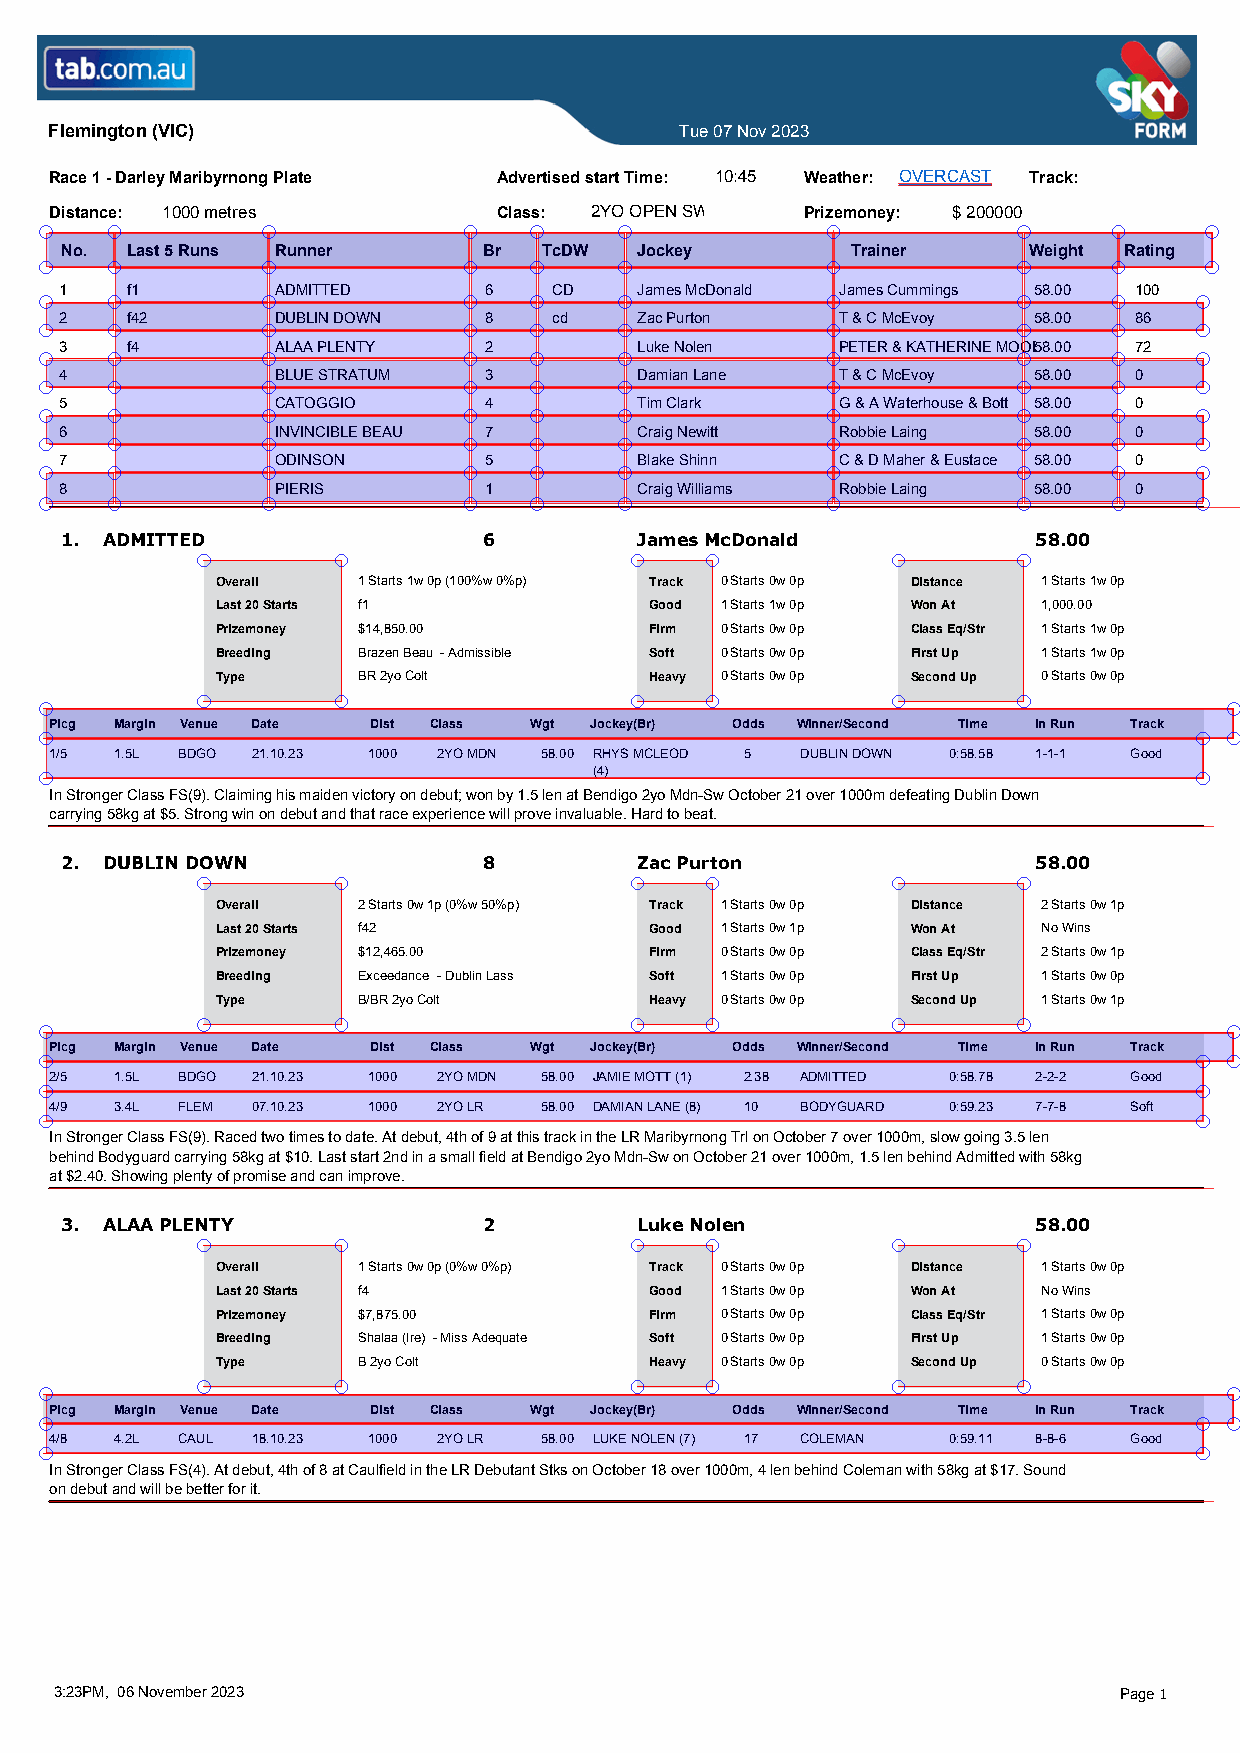
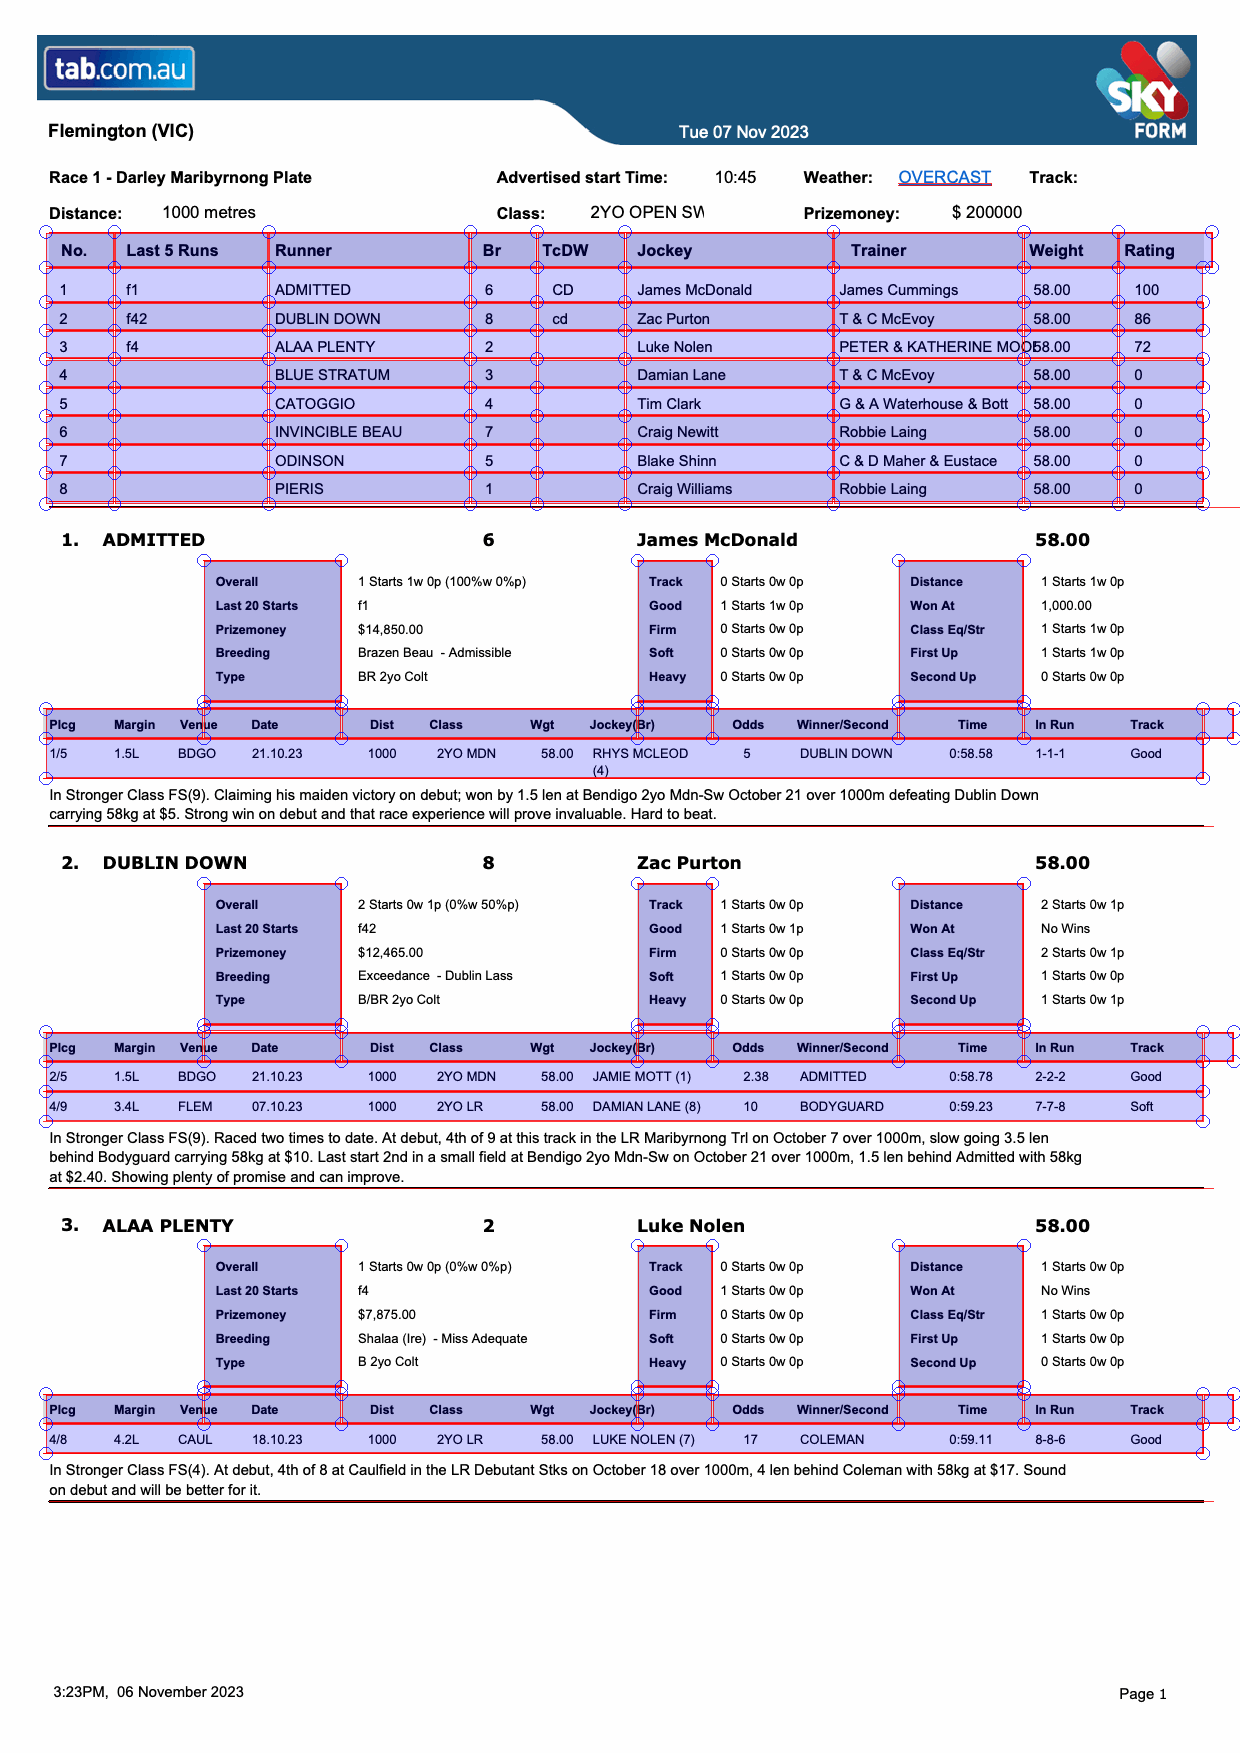
basically working

diff --git a/main.py b/main.py
@@ -1,12 +1,12 @@
+from tokenize import String
 import customtkinter
+from numpy import extract, pad
 
 import pandas as pd
 import pdfplumber
 import re
 from pprint import pprint
-
-
-
+import threading
 
 
 customtkinter.set_appearance_mode("System")  # Modes: system (default), light, dark
@@ -20,123 +20,278 @@ import os
 class App(customtkinter.CTk):
     def __init__(self):
         super().__init__()
+
+        self.table_settings = {
+            "vertical_strategy": "lines",
+            "intersection_y_tolerance": 20,
+        }
+        self.racer_number = 1
         self.geometry("600x200")
 
         self.selected_file = StringVar(value="None Selected")
 
-        self.title_label = customtkinter.CTkLabel(self, text="PDF Text Extract", font=("Arial", 25))
+        self.title_label = customtkinter.CTkLabel(
+            self, text="PDF Text Extract", font=("Arial", 25)
+        )
         self.title_label.grid(row=1, column=1, columnspan=2, padx=5, pady=5)
-        
-        self.select_file_button = customtkinter.CTkButton(self, text="Select a file", command=self.select_file)
+
+        self.select_file_button = customtkinter.CTkButton(
+            self, text="Select a file", command=self.select_file
+        )
         self.select_file_button.grid(row=2, column=1, sticky=W, pady=2, padx=5)
 
-        self.selected_file_label = customtkinter.CTkLabel(self, textvariable=self.selected_file)
+        self.selected_file_label = customtkinter.CTkLabel(
+            self, textvariable=self.selected_file
+        )
         self.selected_file_label.grid(row=2, column=2, sticky=W, pady=2, padx=5)
-       
 
-        self.start_button = customtkinter.CTkButton(self, text="Start Extraction", command=self.extract)
+        self.start_button = customtkinter.CTkButton(
+            self, text="Start Extraction", command=self.start_thread
+        )
         self.start_button.grid(row=3, column=1)
 
+        self.progressbar = customtkinter.CTkProgressBar(self)
+        self.progressbar.grid(row=4, column=1, columnspan=2, padx=10, pady=10)
+        self.progressbar.set(0)
+
+        self.progress_state = StringVar(value="Waiting to start")
+        self.progress_label = customtkinter.CTkLabel(
+            self, textvariable=self.progress_state
+        )
+        self.progress_label.grid(row=5, column=1, columnspan=2, padx=10, pady=10)
 
     def select_file(self):
-        self.selected_file.set(fd.askopenfilename(initialdir=os.getcwd(), filetypes=[("pdf", "*.pdf")]))
+        self.selected_file.set(
+            fd.askopenfilename(initialdir=os.getcwd(), filetypes=[("pdf", "*.pdf")])
+        )
 
     def extract(self):
         with pdfplumber.open(self.selected_file.get()) as pdf:
-            table_settings = {
-                "vertical_strategy": "lines",
-                "intersection_x_tolerance": 20,
-            }
-            # im = pdf.pages[0].to_image(resolution=150)
-            # # im.draw_rects(pdf.pages[0].extract_words())
-            # im.debug_tablefinder(tf=table_settings)
-            # im.save("test.png", format="PNG", quantize=True, colors=256, bits=8)
+            # table_settings = {
+            #     "vertical_strategy": "lines",
+            #     "intersection_x_tolerance": 20,
+            # }
+            im = pdf.pages[0].to_image(resolution=150)
+            # im.draw_rects(pdf.pages[0].extract_words())
+            im.debug_tablefinder(tf=self.table_settings)
+            im.save("test.png", format="PNG", quantize=True, colors=256, bits=8)
 
             # table = pdf.pages[0].extract_table(table_settings=table_settings)
             # df = pd.DataFrame(table[1:], columns=table[0])
             # print(df)
 
-            upto = 1
-            next = False
-            total_starts = []
-            total_winrates = []
-            total_wintimes = []
-
+            expecting_data_next_line = False
             finished_datasets = {}
-            
-            #current_race = ""
-            df = None
+
+            # variable to store the current race's data table
+            current_race_table = None
+
+            # variables to track extra data for each race
+            current_race_starts = []
+            current_race_winrates = []
+            current_race_wintimes = []
+
             for i, page in enumerate(pdf.pages):
-                printed = False
+
+                self.progressbar.set(i / len(pdf.pages))
+                self.update_idletasks()
+                self.progress_state.set(f"Reading page {i} of {len(pdf.pages)}")
 
                 text = page.extract_text().split("\n")
                 for line in text:
                     if line.startswith("Race "):
-                        upto = 1  # reset back to 1
-                        data = line.split(" Advertised ")
-                        print(f"found {data[0]} on page {i}")
+                        # This can be the start of a new race, and the end of an older race
 
-                        if df is not None:
-                            df["Starts"] = total_starts
-                            df["Winrate"] = total_winrates
-                            df["Win Times"] = total_wintimes
-                            total_starts = []
-                            total_winrates = []
-                            total_wintimes = []
-                            finished_datasets[data[0]] = df
-                            print(df)
+                        # If there was a previous race, store and reset the variables
+                        if current_race_table is not None:
+                            # Add on the extra data to the main table
+                            current_race_table["Starts"] = current_race_starts
+                            current_race_table["Winrate"] = current_race_winrates
+                            current_race_table["Win Times"] = current_race_wintimes
 
-                        
+                            # Add it to the finished tables
+                            finished_datasets[race_num] = current_race_table
 
-                        if not printed:
+                            # Reset the variables
+                            current_race_table = None
+                            current_race_starts = []
+                            current_race_winrates = []
+                            current_race_wintimes = []
 
-                            table_settings = {
-                                "vertical_strategy": "lines",
-                                "intersection_y_tolerance": 20,
-                            }
-                            table = page.extract_table(table_settings=table_settings)
-                            df = pd.DataFrame(table[1:], columns=table[0])
-                            df = df.rename(columns={"No.": "Num", "Rating": "Rat"})
-                            print(df.columns)
-                            df.drop(['Last 5 Runs', 'Runner', 'TcDW', 'Jockey', 'Trainer', 'Weight'], axis=1, inplace=True)
-                            printed = True
+                        self.racer_number = 1  # reset back to 1
+                        race_num_name = line.split(" Advertised ")[0]
+                        race_num = race_num_name.split(" - ")[0][-2:]
 
-                    if line.startswith("Distance"):
+                        print(f"found {race_num} on page {i}")
+
+                        # Extract the race results table
+                        table = page.extract_table(table_settings=self.table_settings)
+                        current_race_table = pd.DataFrame(table[1:], columns=table[0])
+                        # Clear any letters that are making it into the table
+                        current_race_table["Rating"] = current_race_table[
+                            "Rating"
+                        ].str.extract("(\d+)", expand=False)
+
+                        current_race_table = current_race_table.rename(
+                            columns={"No.": "Num", "Rating": "Rat"}
+                        )
+
+                        current_race_table.drop(
+                            [
+                                "Last 5 Runs",
+                                "Runner",
+                                "TcDW",
+                                "Jockey",
+                                "Trainer",
+                                "Weight",
+                            ],
+                            axis=1,
+                            inplace=True,
+                        )
+
+                    elif line.startswith("Distance"):
                         data2 = line.split("Prizemoney: ")
                         print(f"Prizemoney: {data2[1]}")
 
-                    if line.startswith(f"{upto}. "):
+                    elif line.startswith(f"{self.racer_number}. "):
                         # print(line)
-                        next = True
+                        expecting_data_next_line = True
 
-                    if next and line.startswith("Overall"):
-                            
-                        next = False
+                    elif expecting_data_next_line and line.startswith("Overall"):
+                        expecting_data_next_line = False
+
                         data = line.split(" ")
                         starts = int(data[1])
                         win_times = int(data[3][:-1])
                         win_rate = data[5][1:-2]
+
                         if win_rate.isdigit():
                             win_rate = round(int(win_rate) / 100, 2)
                         else:
                             win_rate = 0.00
 
                         # print(f"{upto} | Starts: {starts}, Win times: {win_times}, Win Rates: {win_rate}")
-                        total_starts.append(starts)
-                        total_wintimes.append(win_times)
-                        total_winrates.append(win_rate)
+                        current_race_starts.append(starts)
+                        current_race_wintimes.append(win_times)
+                        current_race_winrates.append(win_rate)
 
-                        upto += 1
+                        self.racer_number += 1
                         # 'Overall 1 Starts 0w 0p (0%w 0%p)
-                        # hi
-            
-            with pd.ExcelWriter('output.xlsx') as writer:  
-                for k,v in finished_datasets.items():
-                    v.to_excel(writer, sheet_name=k)
 
-            
-                
+            # Need to add the last table
+            current_race_table["Starts"] = current_race_starts
+            current_race_table["Winrate"] = current_race_winrates
+            current_race_table["Win Times"] = current_race_wintimes
+
+            # Add it to the finished tables
+            finished_datasets[race_num] = current_race_table
+
+            self.progress_state.set("Writing Excel File")
+
+            with pd.ExcelWriter("output.xlsx") as writer:
+                for k, v in finished_datasets.items():
+                    v.to_excel(writer, sheet_name=f"Race {k}")
+
+            self.progressbar.set(1)
+            self.progress_state.set("Finished!")
+
+    def start_thread(self):
+        # Create a new thread to run execute_code
+        thread = threading.Thread(target=self.extract)
+        thread.start()
 
 
 app = App()
 app.mainloop()
+
+
+# with pdfplumber.open(self.selected_file.get()) as pdf:
+#     table_settings = {
+#         "vertical_strategy": "lines",
+#         "intersection_x_tolerance": 20,
+#     }
+#     # im = pdf.pages[0].to_image(resolution=150)
+#     # # im.draw_rects(pdf.pages[0].extract_words())
+#     # im.debug_tablefinder(tf=table_settings)
+#     # im.save("test.png", format="PNG", quantize=True, colors=256, bits=8)
+
+#     # table = pdf.pages[0].extract_table(table_settings=table_settings)
+#     # df = pd.DataFrame(table[1:], columns=table[0])
+#     # print(df)
+
+#     upto = 1
+#     next = False
+#     total_starts = []
+#     total_winrates = []
+#     total_wintimes = []
+
+#     finished_datasets = {}
+
+#     #current_race = ""
+#     df = None
+#     for i, page in enumerate(pdf.pages):
+#         printed = False
+
+#         text = page.extract_text().split("\n")
+#         for line in text:
+#             if line.startswith("Race "):
+#                 upto = 1  # reset back to 1
+#                 data = line.split(" Advertised ")
+#                 print(f"found {data[0]} on page {i}")
+
+#                 if df is not None:
+#                     df["Starts"] = total_starts
+#                     df["Winrate"] = total_winrates
+#                     df["Win Times"] = total_wintimes
+#                     total_starts = []
+#                     total_winrates = []
+#                     total_wintimes = []
+#                     finished_datasets[data[0]] = df
+#                     print(df)
+
+
+#                 if not printed:
+
+#                     table_settings = {
+#                         "vertical_strategy": "lines",
+#                         "intersection_y_tolerance": 20,
+#                     }
+#                     table = page.extract_table(table_settings=table_settings)
+#                     df = pd.DataFrame(table[1:], columns=table[0])
+#                     df = df.rename(columns={"No.": "Num", "Rating": "Rat"})
+#                     print(df.columns)
+#                     df.drop(['Last 5 Runs', 'Runner', 'TcDW', 'Jockey', 'Trainer', 'Weight'], axis=1, inplace=True)
+#                     printed = True
+
+#             if line.startswith("Distance"):
+#                 data2 = line.split("Prizemoney: ")
+#                 print(f"Prizemoney: {data2[1]}")
+
+#             if line.startswith(f"{upto}. "):
+#                 # print(line)
+#                 next = True
+
+#             if next and line.startswith("Overall"):
+
+#                 next = False
+#                 data = line.split(" ")
+#                 starts = int(data[1])
+#                 win_times = int(data[3][:-1])
+#                 win_rate = data[5][1:-2]
+#                 if win_rate.isdigit():
+#                     win_rate = round(int(win_rate) / 100, 2)
+#                 else:
+#                     win_rate = 0.00
+
+#                 # print(f"{upto} | Starts: {starts}, Win times: {win_times}, Win Rates: {win_rate}")
+#                 total_starts.append(starts)
+#                 total_wintimes.append(win_times)
+#                 total_winrates.append(win_rate)
+
+#                 upto += 1
+#                 # 'Overall 1 Starts 0w 0p (0%w 0%p)
+#                 # hi
+
+#     with pd.ExcelWriter('output.xlsx') as writer:
+#         for k,v in finished_datasets.items():
+#             v.to_excel(writer, sheet_name=k)
